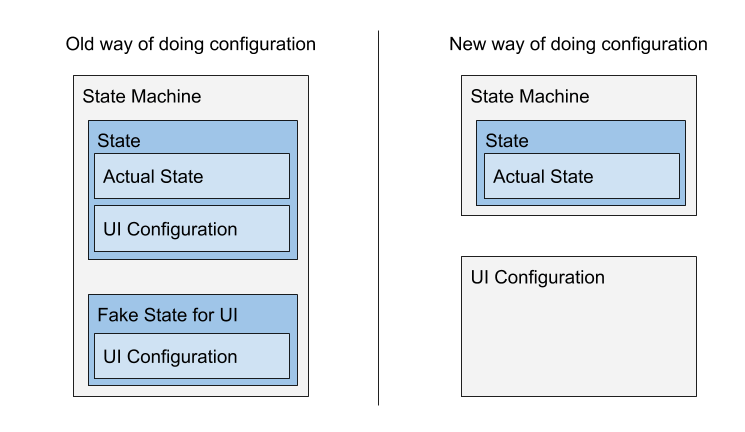
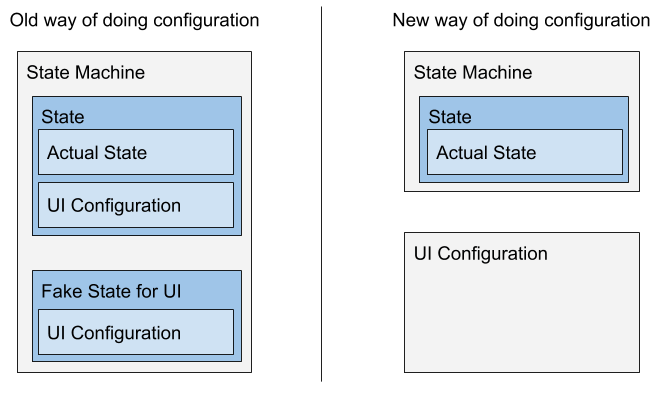
Add source of image

diff --git a/docs/frontend_experiment_index.md b/docs/frontend_experiment_index.md
@@ -7,6 +7,8 @@ Starting with Home Assistant 0.72, we're experimenting with a way of defining yo
 
 ![Visual comparison of old configuration versus new configuration](/img/en/frontend/experimental-ui-comparison.png)
 
+<!-- source: https://docs.google.com/drawings/d/1O1o7-wRlnsU1lLgfdtn3s46P5StJjSL5to5RU9SV8zs/edit?usp=sharing -->
+
 ## Trying it out
 
 Create a new file `<config>/experimental-ui.yaml` and add the following content:
